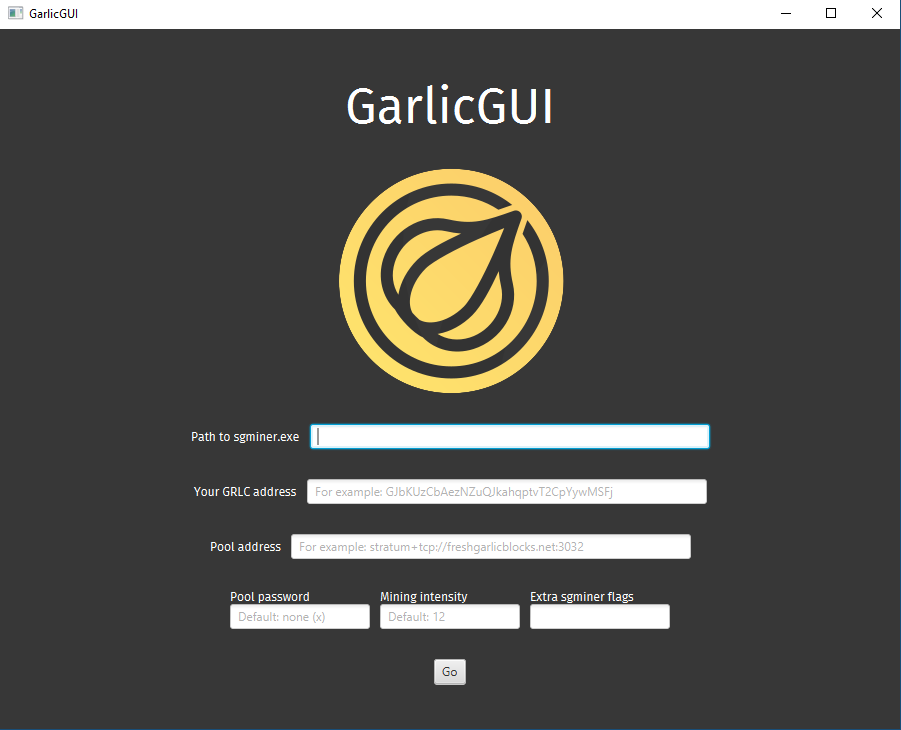
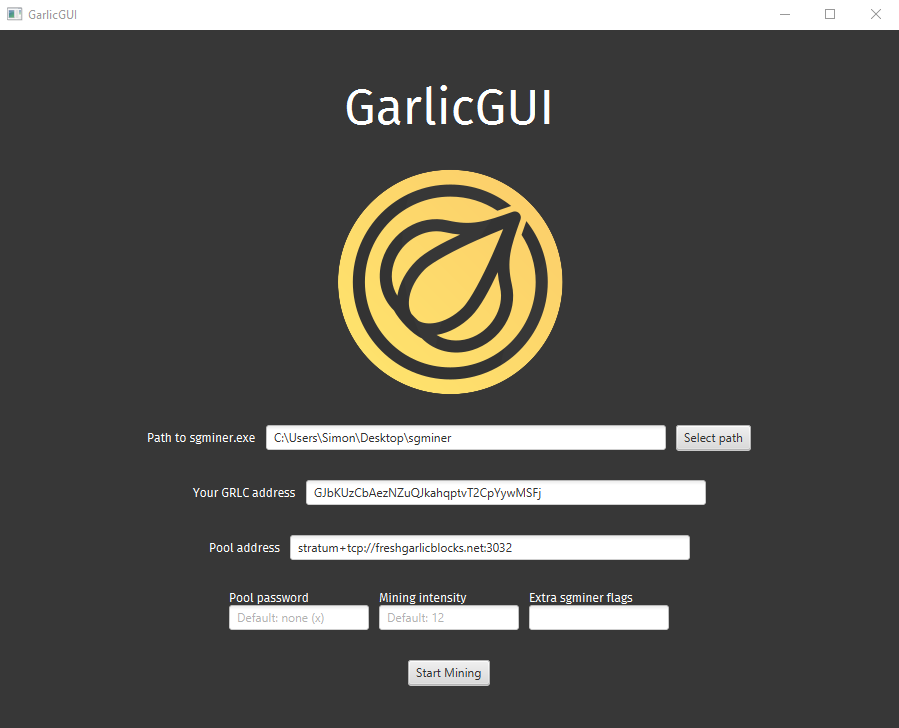
Now saves settings

diff --git a/src/main/view/mainController.java b/src/main/view/mainController.java
@@ -3,7 +3,9 @@ package main.view;
 import java.io.File;
 import java.io.IOException;
 
+import java.util.HashMap;
 import java.util.Iterator;
+import java.util.Map;
 
 import org.json.JSONArray;
 import org.json.JSONObject;
@@ -18,6 +20,7 @@ import javafx.scene.Node;
 import javafx.scene.control.Label;
 import javafx.scene.control.TextField;
 import javafx.scene.control.Button;
+import javafx.scene.control.Alert;
 import javafx.scene.layout.VBox;
 import javafx.scene.image.ImageView;
 import javafx.animation.Animation;
@@ -63,6 +66,26 @@ public class mainController {
 
     @FXML
     private void loadMiner(ActionEvent event){
+        // Get all options
+        String sgminer_path = sgminer_path_textField.getText().trim();
+        String pool_address = pool_address_textField.getText().trim();
+        String grlc_address = grlc_address_textField.getText().trim();
+        String pool_pword = pool_pword_textField.getText().trim();
+        String sgminer_intesity = sgminer_intensity_textField.getText().trim();
+        String sgminer_flags = sgminer_flags_textField.getText().trim();
+
+        if (sgminer_path.isEmpty() || pool_address.isEmpty() || grlc_address.isEmpty()) {
+            Alert alert = new Alert(Alert.AlertType.INFORMATION);
+            alert.setTitle("Information");
+            alert.setHeaderText("Required settings are empty");
+            alert.setContentText("All of: sgminer path, pool address, and GRLC address have to be filled out");
+            alert.showAndWait();
+            return;
+        }
+
+        saveSettings();
+
+        // Disable all input
         go_button.setDisable(true);
         sgminer_path_textField.setDisable(true);
         grlc_address_textField.setDisable(true);
@@ -75,23 +98,14 @@ public class mainController {
         // exe path, pool address, GRLC address, pool password, mining intensity, extra flags
         String sgminer_cmd = "%s\\sgminer --algorithm scrypt-n --nfactor 11 -o %s -u %s -p %s -I %s --api-listen --api-allow W:127.0.0.1 --thread-concurrency 8193 %s";
 
-        // Get all options
-        String sgminer_path = sgminer_path_textField.getText().trim();
-        String pool_address = pool_address_textField.getText().trim();
-        String grlc_address = grlc_address_textField.getText().trim();
-        String pool_pword = pool_pword_textField.getText().trim();
-        String sgminer_intesity = sgminer_intensity_textField.getText().trim();
-        String sgminer_flags = sgminer_flags_textField.getText().trim();
-
-        // Will be seen when frame changes to active mining (TODO: find a better way of doing default values (or don't use them at all)
-        mining_on_Label.setText(pool_address.isEmpty() ? "stratum+tcp://freshgarlicblocks.net:3032" : pool_address);
+        mining_on_Label.setText(pool_address);
 
         // Construct command
         String to_execute = String.format(
                 sgminer_cmd,
-                sgminer_path.isEmpty() ? "C:\\Users\\Simon\\Desktop\\sgminer" : sgminer_path,
-                pool_address.isEmpty() ? "stratum+tcp://freshgarlicblocks.net:3032" : pool_address,
-                grlc_address.isEmpty() ? "GJbKUzCbAezNZuQJkahqptvT2CpYywMSFj" : grlc_address,
+                sgminer_path,
+                pool_address,
+                grlc_address,
                 pool_pword.isEmpty() ? "x" : pool_pword,
                 sgminer_intesity.isEmpty() ? "12" : sgminer_intesity,
                 sgminer_flags
@@ -172,8 +186,27 @@ public class mainController {
         System.exit(0);
     }
 
+    private void saveSettings() {
+        // Save current settings to file using settings class
+        Map<String, String> settingsObj = new HashMap<>();
+        settingsObj.put("sgminer_path", sgminer_path_textField.getText().trim());
+        settingsObj.put("grlc_address", grlc_address_textField.getText().trim());
+        settingsObj.put("pool_address", pool_address_textField.getText().trim());
+        settingsObj.put("pool_pword", pool_pword_textField.getText().trim());
+        settingsObj.put("sgminer_intensity", sgminer_intensity_textField.getText().trim());
+        settingsObj.put("sgminer_flags", sgminer_flags_textField.getText().trim());
+        settings.setSettings(settingsObj);
+    }
+
     public void initialize() {
-        // Currently doing nothing
+        // Load all previous settings from file using settings class
+        Map<String, String> settingsObj = settings.getSettings();
+        sgminer_path_textField.setText(settingsObj.get("sgminer_path"));
+        grlc_address_textField.setText(settingsObj.get("grlc_address"));
+        pool_address_textField.setText(settingsObj.get("pool_address"));
+        pool_pword_textField.setText(settingsObj.get("pool_pword"));
+        sgminer_intensity_textField.setText(settingsObj.get("sgminer_intensity"));
+        sgminer_flags_textField.setText(settingsObj.get("sgminer_flags"));
     }
 
 }

diff --git a/src/main/view/settings.java b/src/main/view/settings.java
@@ -1,0 +1,41 @@
+package main.view;
+
+import java.io.*;
+
+import java.util.Map;
+
+// http://www.tutorialspoint.com/java/java_serialization.htm was useful
+
+public class settings {
+
+    private static String settingsPath = "settings/settings.ser";
+
+    public static Map<String, String> getSettings() {
+        Map<String, String> mapObj = null;
+        try {
+            FileInputStream fileIn = new FileInputStream(new File(settingsPath));
+            ObjectInputStream in = new ObjectInputStream(fileIn);
+            // TODO: sort out this warning:
+            mapObj = (Map<String, String>) in.readObject();
+            in.close();
+            fileIn.close();
+            System.out.println("Serialized settings map loaded");
+        } catch (IOException | ClassNotFoundException e) {
+            new stacktraceAlert().create("Exception occurred", "Does resources/settings/settings.ser exist?", "Exception in settings.getSettings", e);
+        }
+        return mapObj;
+    }
+
+    public static void setSettings(Map<String, String> mapObj) {
+        try {
+            FileOutputStream fileOut = new FileOutputStream(settingsPath);
+            ObjectOutputStream out = new ObjectOutputStream(fileOut);
+            out.writeObject(mapObj);
+            out.close();
+            fileOut.close();
+            System.out.println("Serialized settings map saved");
+        } catch (IOException e) {
+            new stacktraceAlert().create("Exception occurred", "Does resources/settings/settings.ser exist?", "Exception in settings.setSettings", e);
+        }
+    }
+}

diff --git a/README.md b/README.md
@@ -1,8 +1,8 @@
 # GarlicGUI
 
-My attempt at making a GUI for the Garlicoin SGMiner
+A simple GUI for the Garlicoin SGMiner (AMD only)
 
-Currently uses default values (and my GRLC address) if no options are supplied
+`settings/settings.ser` needs to exist in the same directory as the `.jar` / `.exe` for it to work
 
 ## Setup
 
